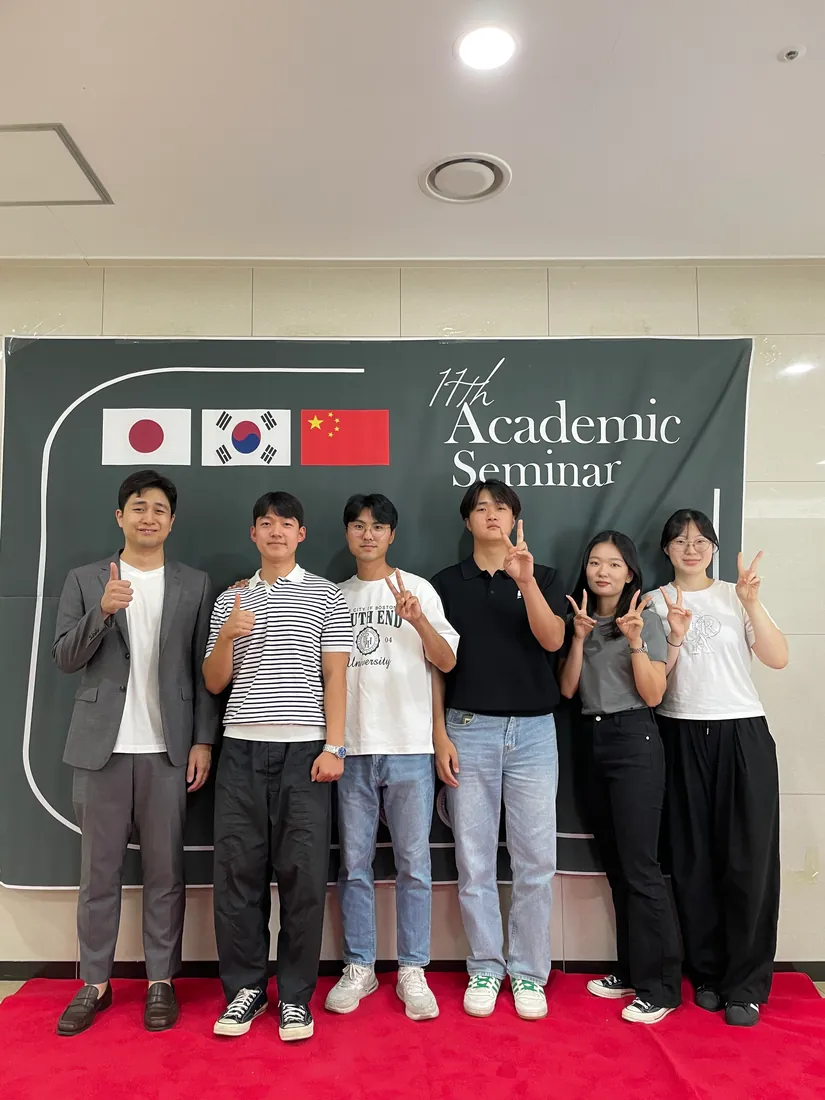
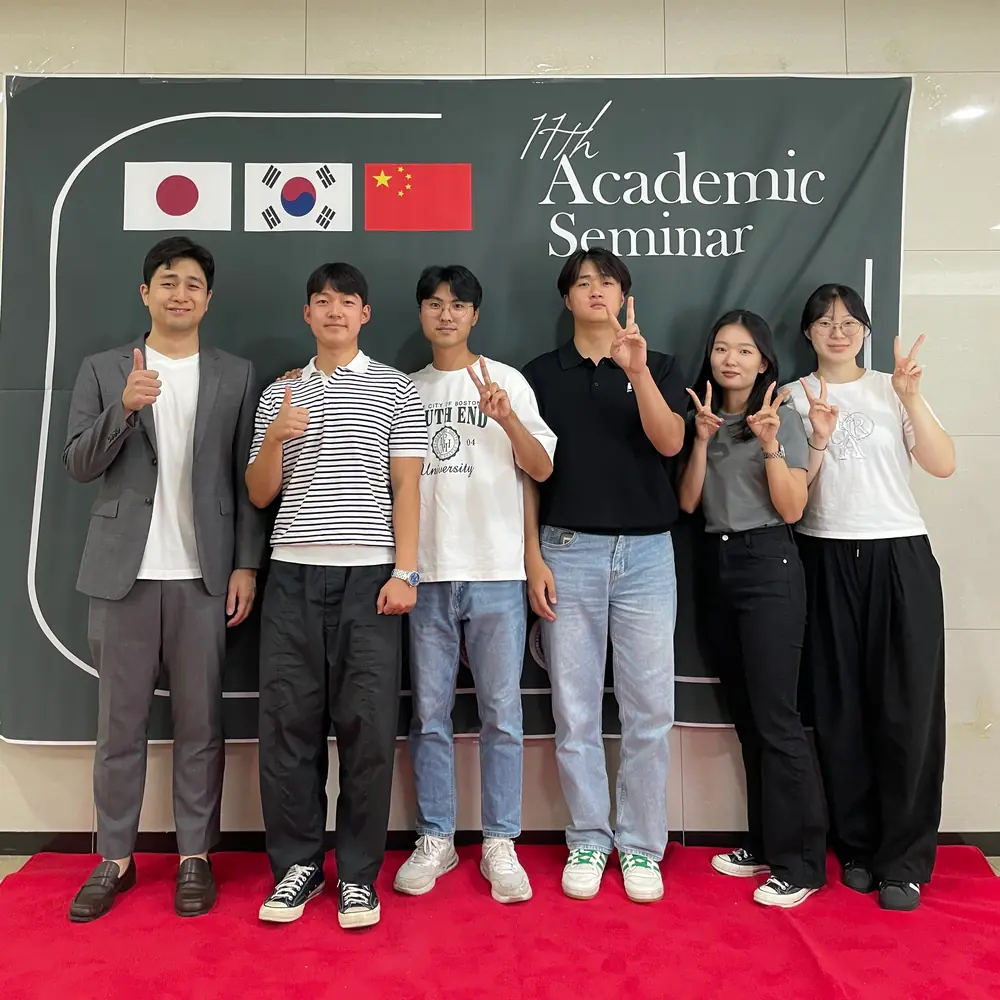
Photos: crop the empty ceiling from the 2024.09.07 photo
- Square crop that keeps the banner and everyone in the group
- Shown across the whole row like the ACPT group photo
- CSS: .photo-square uses a 1:1 frame

Claude-Session: https://claude.ai/code/session_01MFbgvMt9QEstDZk38xNsny

diff --git a/photos.html b/photos.html
@@ -66,8 +66,8 @@
       <section class="content-section photo-section">
         <h2 class="photo-date">2024.09.07</h2>
         <div class="photo-grid">
-          <div class="photo-card">
-            <img src="assets/img/gallery/2024-09-07/thumbs/seminar-2024-09-07-01-thumb.webp" alt="Lab photo, 2024.09.07" loading="lazy" decoding="async" width="480" height="640" />
+          <div class="photo-card photo-wide photo-square">
+            <img src="assets/img/gallery/2024-09-07/thumbs/seminar-2024-09-07-01-thumb.webp" alt="Lab photo, 2024.09.07" loading="lazy" decoding="async" width="480" height="480" />
           </div>
         </div>
       </section>

diff --git a/assets/css/styles.css b/assets/css/styles.css
@@ -909,6 +909,10 @@ th {
   aspect-ratio: 4 / 3;
 }
 
+.photo-card.photo-square img {
+  aspect-ratio: 1 / 1;
+}
+
 .external-link-group {
   margin: -20px 0 34px;
 }
